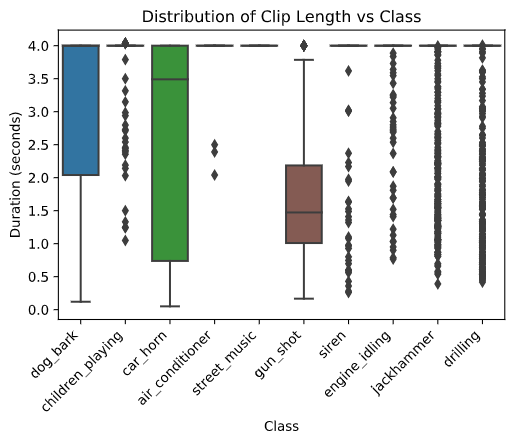
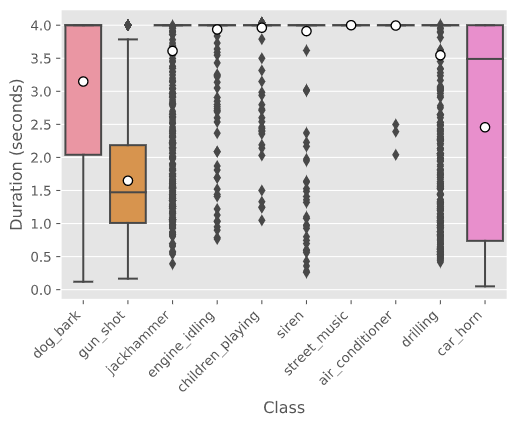
updated data-exploration for newer plots

diff --git a/data-exploration_parallel.py b/data-exploration_parallel.py
@@ -29,7 +29,7 @@ file_data
 # ## Overview of distributions of the data
 # ### Plot the overall counts of the categories
 ax = sns.countplot(x='class', data=file_data)
-ax.set_title('Overall count of audio files by category')
+# ax.set_title('Overall count of audio files by category')
 ax.set_xticklabels(
     ax.get_xticklabels(), 
     rotation=45, 
@@ -43,23 +43,25 @@ plt.show()
 # ### Plot the counts of the categories by fold
 facets = sns.catplot(
     data=file_data,
-    col_wrap=5,
+    height=1.5,
+    aspect=2.5,
+    col_wrap=2,
     x='class',
     kind='count',
     col='fold'
 )
 facets.set_xticklabels(rotation=45, horizontalalignment='right')
 facets.set_titles('Fold {col_name}')
-plt.xlabel('Class')
-plt.ylabel('Count')
-plt.suptitle('Counts of categories by fold', y=1.05)
+plt.xlabel('class')
+plt.ylabel('count')
+# plt.suptitle('Counts of categories by fold', y=1.05)
 plt.show()
 
 
 # %% [markdown]
 # ### See how Audio Length/Duration is distributed
 
-# sample down
+# Sample down if needed
 # file_data = file_data.groupby('class', as_index=False).apply(lambda x: x.sample(10))
 
 file_data['raw_audio_tuple'] = Parallel(n_jobs=-1)(delayed(
@@ -76,21 +78,29 @@ file_data['duration'] = [
 
 # %% [markdown]
 # #### In particular, see the distribution of clip length vs class
-ax = sns.boxplot(x="class", y="duration", data=file_data)
+ax = sns.boxplot(x="class",
+                 y="duration", 
+                 data=file_data,
+                 showmeans=True,
+                 meanprops={"marker":"o",
+                            "markerfacecolor":"white", 
+                            "markeredgecolor":"black",
+                            "markersize":"7"})
 ax.set_xticklabels(
     ax.get_xticklabels(), 
     rotation=45, 
     horizontalalignment='right',
 )
-ax.set_title('Distribution of Clip Length vs Class')
+# ax.set_title('Distribution of Clip Length vs Class')
 plt.xlabel('Class')
 plt.ylabel('Duration (seconds)')
+
 plt.show()
 
 # %% [markdown]
 # #### Also, see the count of various clip lengths
 ax = sns.distplot(file_data['duration'], bins=20, kde=False)
-ax.set_title('Count of Clip Lengths')
+# ax.set_title('Count of Clip Lengths')
 plt.xlabel('Duration (seconds)')
 plt.ylabel('Count')
 plt.show()
@@ -99,27 +109,30 @@ plt.show()
 # ### Plot Waves and Spectrogram
 # #### Plot waves, one for each class
 from IPython.display import Audio
-plt.figure(figsize=(20,60))
+plt.figure(figsize=(6,9))
 plt.tight_layout()
 for i in range(len(CLASSES)):
     selection = file_data[file_data['class'] == CLASSES[i]][:1].reset_index()
     plt.subplot(10,1,i+1)
     librosa.display.waveplot(selection['raw_features'][0], 
                              sr=selection['sample_rate'][0])
-    plt.title(selection['class'][0])
-plt.suptitle('Wave Plot for each class', y=0.895, fontsize=16)
+    plt.title(selection['class'][0], fontsize=12, y=0.25)
+# plt.suptitle('Wave Plot for each class', y=0.895, fontsize=16)
 plt.show()
 # Audio(selection['raw_features'][0], rate=selection['sample_rate'][0])
 
 # %% [markdown]
 # ####  Plot spectrogram, one for each class
-plt.figure(figsize=(20,60))
+plt.figure(figsize=(6,9))
 plt.tight_layout()
 for i in range(len(CLASSES)):
     selection = file_data[file_data['class'] == CLASSES[i]][:1].reset_index()
     plt.subplot(10,1,i+1)
     plt.specgram(selection['raw_features'][0], 
-             Fs=selection['sample_rate'][0])
-    plt.title(selection['class'][0])
-plt.suptitle('Spectrogram for each class', y=0.895, fontsize=16)
+                 Fs=selection['sample_rate'][0]
+                )
+    plt.title(selection['class'][0], fontsize=12, y=0)
+# plt.suptitle('Spectrogram for each class', y=0.895, fontsize=16)
 plt.show()
+
+# %%
